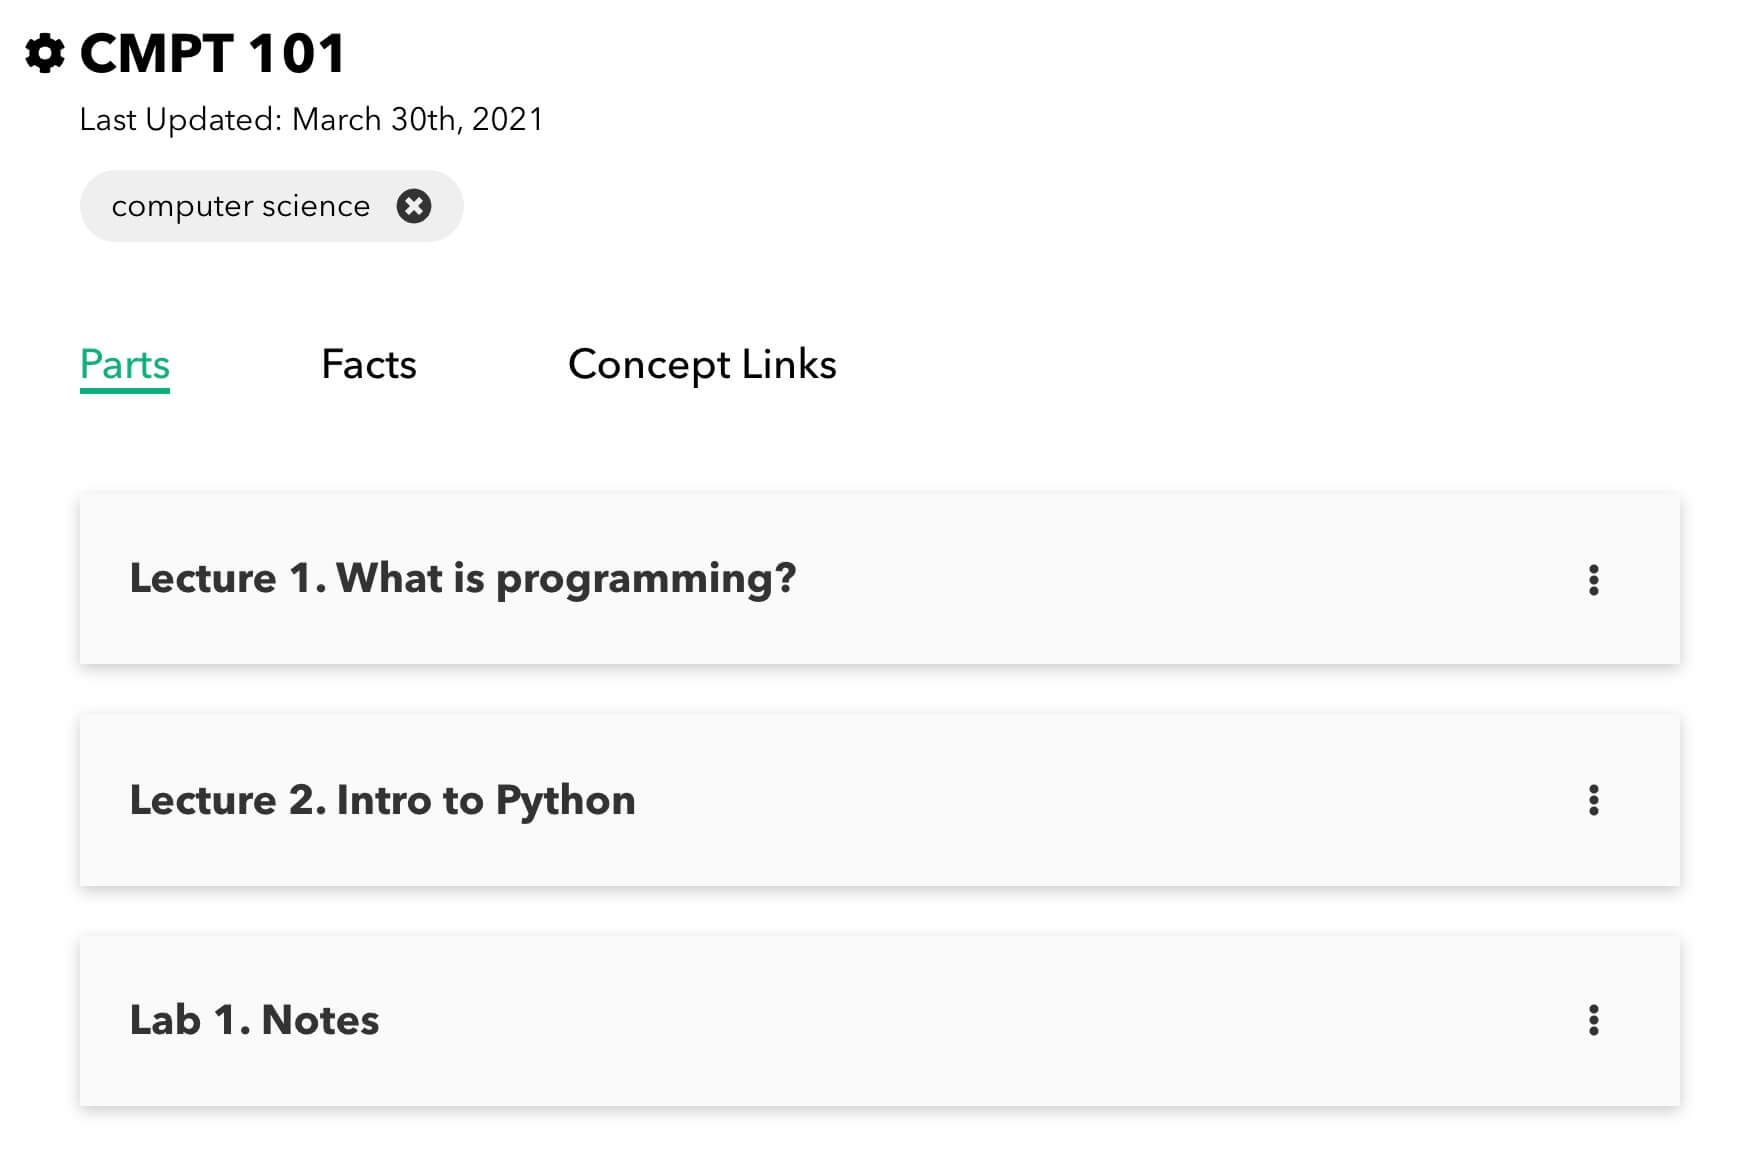
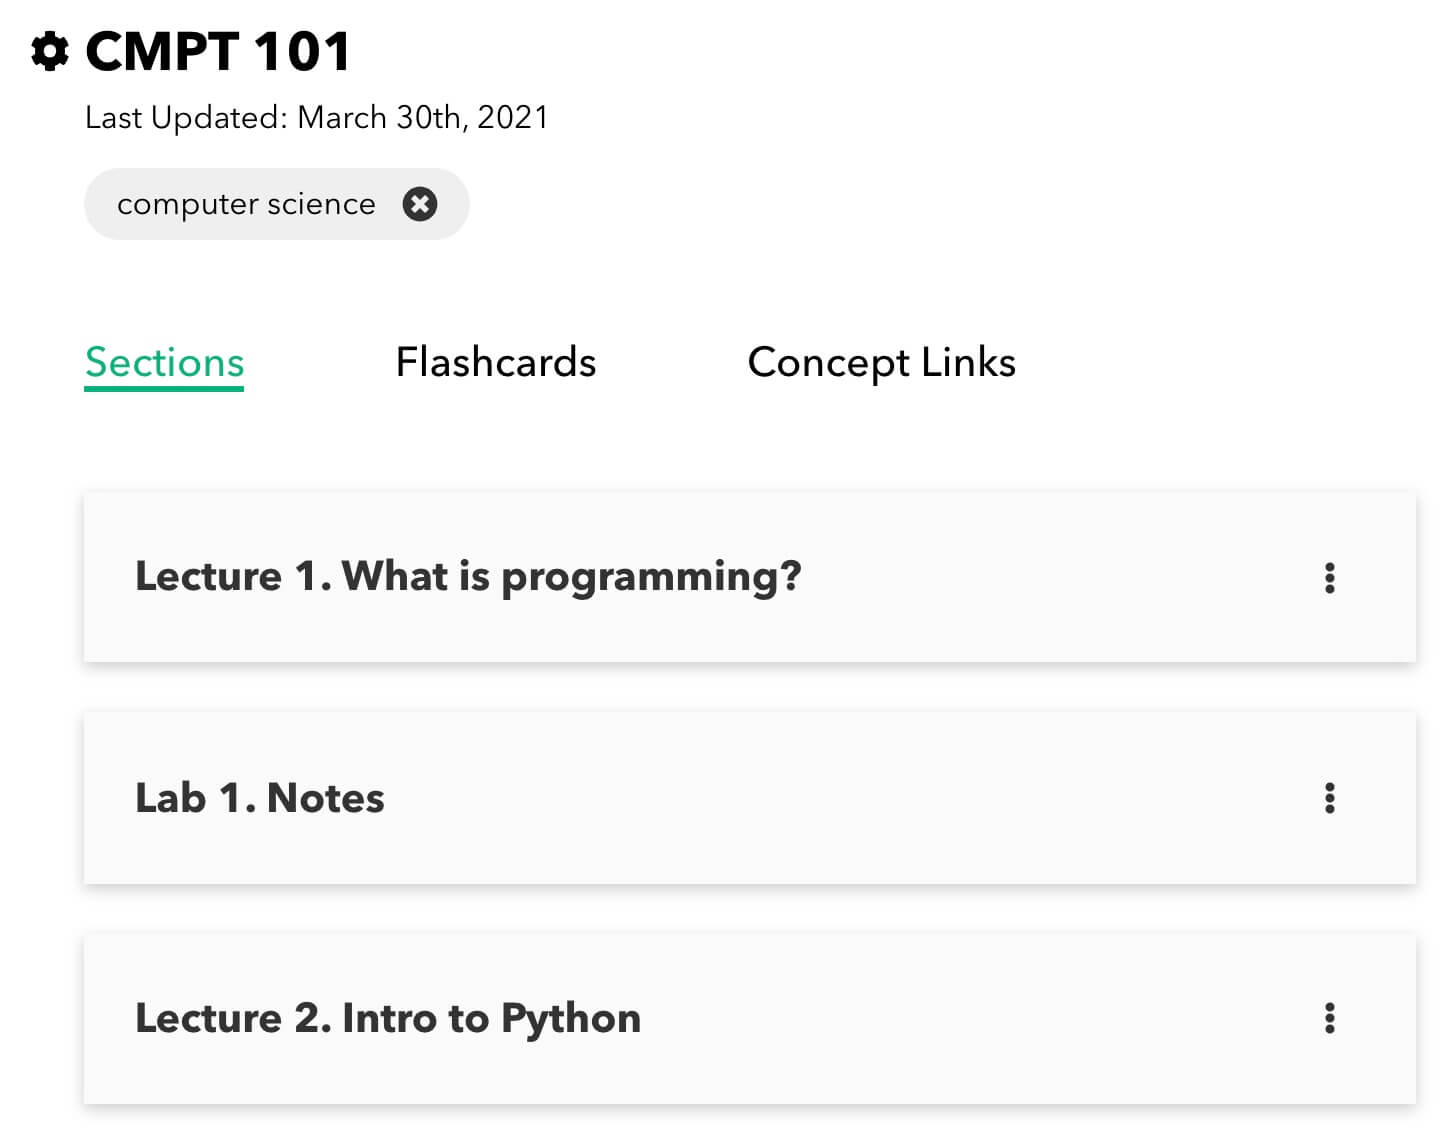
Rename resources on frontend to make them easier to understand

diff --git a/frontend/src/modal/components/welcome-wizard-modal.component.tsx b/frontend/src/modal/components/welcome-wizard-modal.component.tsx
@@ -150,11 +150,10 @@ const gettingStarted = (
 
 const materials = (
   <>
-    <SHeadingSubSubtitle>Materials</SHeadingSubSubtitle>
-    <SBodyText>Analogy: think of a material like a book or subject notebook</SBodyText>
+    <SHeadingSubSubtitle>Notebooks</SHeadingSubSubtitle>
     <SBodyText>
-      Materials are used to organize and group notes.
-      You can add tags to materials for further organization.
+      Notebooks are used to organize and group notes.
+      You can add tags to notebooks for further organization.
     </SBodyText>
     <SBodyText>Example Usages:</SBodyText>
     <SList>
@@ -168,13 +167,10 @@ const materials = (
 
 const parts = (
   <>
-    <SHeadingSubSubtitle>Material - Parts</SHeadingSubSubtitle>
+    <SHeadingSubSubtitle>Notebook - Sections</SHeadingSubSubtitle>
     <SBodyText>
-      A material is made up of multiple parts. Use parts to store a single "unit" of a material.
-      For example, if your material is a course, a part could be 1 lecture.
-    </SBodyText>
-    <SBodyText>
-      Analogy: chapter in a book
+      A notebook is made up of multiple sections.
+      For example, if your notebook is for a course, each section could be a lecture.
     </SBodyText>
     <SBodyText>Example Usages:</SBodyText>
     <SList>
@@ -188,24 +184,29 @@ const parts = (
 
 const sections = (
   <>
-    <SHeadingSubSubtitle>Part - Sections</SHeadingSubSubtitle>
-    <SBodyText>A section contains text boxes that you type your notes into. This is where you write your notes.</SBodyText>
-    <SBodyText>A part can have many sections.</SBodyText>
+    <SHeadingSubSubtitle>Section - Notes</SHeadingSubSubtitle>
+    <SBodyText>
+      This is where you write your notes.
+      Each note has two text boxes: one for a note title, the other for the note contents.
+    </SBodyText>
+    <SBodyText>A section can have many notes.</SBodyText>
     <SImageShadow src={sectionsImage} />
   </>
 );
 
 const facts = (
   <>
-    <SHeadingSubSubtitle>Part - Facts</SHeadingSubSubtitle>
+    <SHeadingSubSubtitle>Section - Flashcards</SHeadingSubSubtitle>
     <SBodyText>
-      A fact is a flashcard. Create a fact for information you want to practice and remember.
+      Create flashcards for information you want to practice and remember.
     </SBodyText>
     <SBodyText>
-      Clicking the checkmark will toggle the "mastered" status of a fact (green = mastered).
-      If a fact is mastered, you won't see it in practice mode (more on that later).
+      Clicking the checkmark will toggle the "mastered" status of a flashcard (green = mastered).
     </SBodyText>
-    <SBodyText>A part can have many facts.</SBodyText>
+    <SBodyText>
+      If you mark a flashcard as mastered, you won't see it in practice mode (more on that later).
+    </SBodyText>
+    <SBodyText>A section can have many flashcards.</SBodyText>
     <SImageShadow src={factsImage} />
   </>
 );
@@ -215,9 +216,11 @@ const concepts = (
     <SHeadingSubSubtitle>Concepts</SHeadingSubSubtitle>
     <SBodyText>
       Concepts represent abstract ideas or concepts that you're struggling to understand.
+    </SBodyText>
+    <SBodyText>
       Create a concept when you want to better understand an idea, theory, or concept.
     </SBodyText>
-    <SBodyText>Like materials, concepts can have tags.</SBodyText>
+    <SBodyText>Like notebooks, concepts be tagged for better organization.</SBodyText>
     <SImageShadow src={conceptsImage} />
   </>
 );
@@ -239,8 +242,10 @@ const dragAndDrop = (
     <SHeadingSubSubtitle>Drag & Drop</SHeadingSubSubtitle>
     <SBodyText>You can re-arrange the following things using drag-and-drop:</SBodyText>
     <SList>
-      <li>Material: Parts, Sections, Facts</li>
-      <li>Concept: Hooks</li>
+      <li>Notebook Sections</li>
+      <li>Notes</li>
+      <li>Flashcards</li>
+      <li>Hooks</li>
     </SList>
     <SImage src={dragSvg} />
   </>
@@ -251,13 +256,13 @@ const practice = (
     <SHeadingSubSubtitle>Practice Mode</SHeadingSubSubtitle>
     <SBodyText>
       Click on "Practice" in the left sidebar to enter practice mode.
-      This is where you can study your (non-mastered) facts.
+      This is where you can study your (non-mastered) flashcards.
     </SBodyText>
-    <SBodyText>The facts loaded depends on your current page:</SBodyText>
+    <SBodyText>Which flashcards are loaded depends on your current page:</SBodyText>
     <SList>
-      <li>Part Page: load facts for that part</li>
-      <li>Material Page: load facts for all parts in that material</li>
-      <li>Otherwise: load all facts for all materials / parts</li>
+      <li>Section Page: load flashcards for that section</li>
+      <li>Notebook Page: load flashcards for all sections in that notebook</li>
+      <li>Other Page: load all flashcards for all notebooks</li>
     </SList>
     <SImageShadow src={practiceImage} />
   </>

diff --git a/frontend/src/section/components/section-list.component.tsx b/frontend/src/section/components/section-list.component.tsx
@@ -1,7 +1,7 @@
 import React from "react";
 import { useDispatch, useSelector } from "react-redux";
 import { DropResult } from "react-beautiful-dnd";
-import { faBrain, faCube, faLightbulb } from "@fortawesome/free-solid-svg-icons";
+import { faLightbulb, faQuestionCircle, faStickyNote } from "@fortawesome/free-solid-svg-icons";
 import styled from "styled-components";
 
 // logic
@@ -14,6 +14,7 @@ import { useToggle } from "../../shared/hooks/use-toggle.hook";
 import { showModal } from "modal/redux/modal.slice";
 
 // components
+import { CreateFactModal } from "../../fact/components/create-fact-modal.component";
 import { DragAndDropWrapper } from "shared/components/drag-and-drop/drag-and-drop-wrapper.component";
 import { DraggableWrapper } from "shared/components/drag-and-drop/draggable-wrapper.component";
 import { FloatingCornerButton } from "shared/components/button/floating-corner-button.component";
@@ -22,7 +23,6 @@ import { EditableContentBox } from "shared/components/info/editable-content-box.
 // styles
 import { theme } from "shared/styles/theme.style";
 import { SHeadingSubSubtitle } from "shared/styles/typography.style";
-import { CreateFactModal } from "../../fact/components/create-fact-modal.component";
 
 interface IProps {
   partId: string;
@@ -36,9 +36,9 @@ export const SectionList: React.FC<IProps> = ({ partId }) => {
 
   const [menuShowing, toggleMenu] = useToggle(false);
   const menuActions: IMenuAction[] = [
-    { name: "Section", icon: faCube, action: handleCreateSection },
-    { name: "Fact", icon: faLightbulb, action: handleCreateFact },
-    { name: "Concept", icon: faBrain, action: handleCreateConcept },
+    { name: "Note", icon: faStickyNote, action: handleCreateSection },
+    { name: "Flashcard", icon: faQuestionCircle, action: handleCreateFact },
+    { name: "Concept", icon: faLightbulb, action: handleCreateConcept },
   ];
 
   function handleDragEnd(result: DropResult) {
@@ -94,7 +94,7 @@ export const SectionList: React.FC<IProps> = ({ partId }) => {
   if (!sections) return null;
   return (
     <SContainer>
-      <SHeadingSubSubtitle># Sections: {sections.length}</SHeadingSubSubtitle>
+      <SHeadingSubSubtitle># Notes: {sections.length}</SHeadingSubSubtitle>
 
       {sections.length === 0 && <SNoItemsHeading>No sections found...</SNoItemsHeading>}
       <DragAndDropWrapper droppableId="section-list-droppable" handleDragEnd={handleDragEnd}>

diff --git a/frontend/src/material/pages/material-detail.page.tsx b/frontend/src/material/pages/material-detail.page.tsx
@@ -30,8 +30,8 @@ export const MaterialDetailPage: React.FC<RouteComponentProps> = () => {
   const materialsLoaded = useSelector(selectMaterialsLoaded);
   const { materialId } = useParams<IMatchParams>();
 
-  const tabNames = ["Parts", "Facts", "Concept Links"];
-  const [selectedTab, setSelectedTab] = useState("Parts");
+  const tabNames = ["Sections", "Flashcards", "Concept Links"];
+  const [selectedTab, setSelectedTab] = useState(tabNames[0]);
 
   useEffect(() => {
     if (currentMaterial?.id === materialId) return;
@@ -44,10 +44,10 @@ export const MaterialDetailPage: React.FC<RouteComponentProps> = () => {
     const materialExists = materialHash.hasOwnProperty(materialId);
     if (materialExists) {
       dispatch(setCurrentMaterialId(materialId));
-      setSelectedTab("Parts");
+      setSelectedTab(tabNames[0]);
     } else {
       dispatch(showAndHideAlert({
-        message: "Material with that ID not found.",
+        message: "Notebook with that ID not found.",
         type: "warning",
       }));
     }
@@ -60,10 +60,10 @@ export const MaterialDetailPage: React.FC<RouteComponentProps> = () => {
       <MaterialDetailHeader material={currentMaterial} />
       <TabNames tabNames={tabNames} selectedTab={selectedTab} setSelectedTab={setSelectedTab} />
       <div>
-        <Tab title="Parts" selectedTab={selectedTab}>
+        <Tab title="Sections" selectedTab={selectedTab}>
           <PartList materialId={materialId} />
         </Tab>
-        <Tab title="Facts" selectedTab={selectedTab}>
+        <Tab title="Flashcards" selectedTab={selectedTab}>
           <FactsForMaterial material={currentMaterial} />
         </Tab>
         <Tab title="Concept Links" selectedTab={selectedTab}>

diff --git a/frontend/src/part/pages/part-detail.page.tsx b/frontend/src/part/pages/part-detail.page.tsx
@@ -30,7 +30,7 @@ export const PartDetailPage: React.FC = () => {
 
   const { partId } = useParams<IMatchParams>();
 
-  const tabNames = ["Sections", "Facts", "Concept Links"];
+  const tabNames = ["Notes", "Flashcards", "Concept Links"];
   const [selectedTab, setSelectedTab] = useState(tabNames[0]);
 
   useEffect(() => {
@@ -39,7 +39,7 @@ export const PartDetailPage: React.FC = () => {
     const partExists = partHash.hasOwnProperty(partId);
     if (partExists) {
       dispatch(setCurrentPartId(partId));
-      setSelectedTab("Sections");
+      setSelectedTab("Notes");
     } else {
       dispatch(getPart(partId));
       dispatch(setCurrentPartId(partId));
@@ -61,11 +61,11 @@ export const PartDetailPage: React.FC = () => {
 
       <TabNames tabNames={tabNames} selectedTab={selectedTab} setSelectedTab={setSelectedTab} />
       <div>
-        <Tab title="Sections" selectedTab={selectedTab}>
+        <Tab title="Notes" selectedTab={selectedTab}>
           <PartChecklist part={currentPart} />
           <SectionList partId={currentPart.id} />
         </Tab>
-        <Tab title="Facts" selectedTab={selectedTab}>
+        <Tab title="Flashcards" selectedTab={selectedTab}>
           <FactList partId={partId} />
         </Tab>
         <Tab title="Concept Links" selectedTab={selectedTab}>

diff --git a/frontend/src/material/components/facts-for-material.component.tsx b/frontend/src/material/components/facts-for-material.component.tsx
@@ -120,7 +120,7 @@ export const FactsForMaterial: React.FC<IProps> = ({ material }) => {
 
   return (
     <SContainer>
-      { factsForMaterial.length === 0 && <SHeadingSubSubtitle weight={500}>No facts found.</SHeadingSubSubtitle> }
+      { factsForMaterial.length === 0 && <SHeadingSubSubtitle weight={500}>No flashcards found.</SHeadingSubSubtitle> }
 
       {
         Object.keys(factHash).map((partName, index) => (
@@ -128,7 +128,7 @@ export const FactsForMaterial: React.FC<IProps> = ({ material }) => {
             <SPartHeading
               as={Link}
               to={`/parts/${factHash[partName][0].part_id}`}
-            >{partName}: {factHash[partName].length} Fact(s)</SPartHeading>
+            >{partName}: {factHash[partName].length} Flashcard{factHash[partName].length > 1 && "s"}</SPartHeading>
             <SList>
               {factHash[partName].map((fact, index) => (
                 <EditableContentBox
@@ -172,6 +172,7 @@ const SFactList = styled.div`
 `;
 
 const SPartHeading = styled(SHeadingSubSubtitle)`
+  font-weight: 500;
   display: inline-block;
   text-decoration: underline;
   

diff --git a/frontend/src/shared/components/nav/app-sidebar.component.tsx b/frontend/src/shared/components/nav/app-sidebar.component.tsx
@@ -12,7 +12,7 @@ import { useAppLocation } from "../../hooks/use-app-location.hook";
 import { selectTimerModalShowing } from "timer/redux/timer.selectors";
 
 import { theme } from "shared/styles/theme.style";
-import { TFactSource } from "../../../practice/redux/practice.types";
+import { TFactSource } from "practice/redux/practice.types";
 
 export const AppSidebar: React.FC = () => { 
   const dispatch = useDispatch();
@@ -29,7 +29,7 @@ export const AppSidebar: React.FC = () => {
     let source: TFactSource = "all";
 
     switch(appLocation) {
-      case "materials":
+      case "material-detail":
         source = "material";
         break;
       case "parts":
@@ -54,7 +54,7 @@ export const AppSidebar: React.FC = () => {
     <SContent>
       <SSidebarLink to="/materials" $isSelected={appLocation === "parts"}>
         <SIcon icon={faBook} />
-        <SName>Materials</SName>
+        <SName>Notebooks</SName>
       </SSidebarLink>
       <SSidebarLink to="/concepts">
         <SIcon icon={faLightbulb} />

diff --git a/frontend/src/practice/pages/practice.page.tsx b/frontend/src/practice/pages/practice.page.tsx
@@ -21,6 +21,7 @@ import { SButtonGreen, SButtonRed, SButton } from "shared/styles/button.style";
 import { STextareaBase } from "shared/styles/form.style";
 import { useForm } from "../../shared/hooks/use-form.hook";
 import { updateFact } from "../../fact/redux/fact.thunks";
+import { showAndHideAlert } from "../../alert/redux/alert.thunks";
 
 export const PracticePage: React.FC = () => {
   const practiceState = useSelector(selectPracticeState);
@@ -156,10 +157,10 @@ export const PracticePage: React.FC = () => {
   }
 
   function getStudyHeadingText() {
-    if (practiceState.source === "material") return "Studying facts for material";
-    if (practiceState.source === "part") return "Studying facts for part";
+    if (practiceState.source === "material") return "Studying flashcards in notebook";
+    if (practiceState.source === "part") return "Studying flashcards in section";
 
-    return "Studying all facts";
+    return "Studying all flashcards";
   }
 
   function getPracticeScreen() {

diff --git a/frontend/src/shared/hooks/use-app-location.hook.ts b/frontend/src/shared/hooks/use-app-location.hook.ts
@@ -1,7 +1,7 @@
 import { useState, useEffect } from "react";
 import { useLocation } from "react-router-dom";
 
-export type TAppLocation = "concepts" | "materials" | "library" | "other" | "parts" | "practice";
+export type TAppLocation = "concepts" | "materials" | "material-detail" | "library" | "other" | "parts" | "practice";
 
 export function useAppLocation(): TAppLocation {
   const [appLocation, setAppLocation] = useState<TAppLocation>("other");
@@ -12,6 +12,7 @@ export function useAppLocation(): TAppLocation {
     if (pathname.startsWith("/login"))      setAppLocation("other");
     if (pathname.startsWith("/concepts"))   setAppLocation("concepts");
     if (pathname.startsWith("/materials"))  setAppLocation("materials");
+    if (pathname.startsWith("/materials/")) setAppLocation("material-detail");
     if (pathname.startsWith("/parts"))      setAppLocation("parts");
     if (pathname.startsWith("/practice"))   setAppLocation("practice");
   }, [pathname]);

diff --git a/frontend/src/part/components/part-list.component.tsx b/frontend/src/part/components/part-list.component.tsx
@@ -69,7 +69,7 @@ export const PartList: React.FC<IProps> = ({ materialId }) => {
     <DragAndDropWrapper droppableId="part-list-droppable" handleDragEnd={handleDragEnd}>
       <SList>
         {materialParts.length === 0 && (
-          <SHeadingSubSubtitle weight={500}>No parts found...</SHeadingSubSubtitle>
+          <SHeadingSubSubtitle weight={500}>No sections found...</SHeadingSubSubtitle>
         )}
         {materialParts.map((part, index) => (
           <PartListItem
@@ -83,7 +83,7 @@ export const PartList: React.FC<IProps> = ({ materialId }) => {
       <FloatingCornerButton icon="plus" handleClick={toggleCreateModalShowing} />
       <CreateNamedEntityModal
         createEntity={handleCreate}
-        entityName="Part"
+        entityName="Section"
         handleClose={toggleCreateModalShowing}
         isShowing={createModalShowing}
       />

diff --git a/frontend/src/concept/pages/concept-detail.page.tsx b/frontend/src/concept/pages/concept-detail.page.tsx
@@ -30,7 +30,7 @@ export const ConceptDetailPage: FC<RouteComponentProps> = () => {
   const params = useParams<IMatchParams>();
   const conceptsLoaded = useSelector(selectConceptsLoaded);
 
-  const tabNames = ["Hooks", "Materials", "Concept Links"];
+  const tabNames = ["Hooks", "Notebooks", "Concept Links"];
   const [selectedTab, setSelectedTab] = useState("Hooks");
 
   const { conceptId } = params;
@@ -67,7 +67,7 @@ export const ConceptDetailPage: FC<RouteComponentProps> = () => {
         <Tab title="Hooks" selectedTab={selectedTab}>
           <ConceptHooks concept={currentConcept} />
         </Tab>
-        <Tab title="Materials" selectedTab={selectedTab}>
+        <Tab title="Notebooks" selectedTab={selectedTab}>
           <ConceptMaterials concept={currentConcept} />
         </Tab>
         <Tab title="Concept Links" selectedTab={selectedTab}>

diff --git a/frontend/src/material/pages/materials.page.tsx b/frontend/src/material/pages/materials.page.tsx
@@ -73,7 +73,7 @@ export const MaterialsPage: React.FC = () => {
       />
       <SConceptSection>
         <SPaddedContainer>
-          <SHeadingSubtitle>Materials</SHeadingSubtitle>
+          <SHeadingSubtitle>Notebooks</SHeadingSubtitle>
           <SortFilterControls
             filterText={filterText}
             getIcon={getSortIconCaret}
@@ -82,7 +82,7 @@ export const MaterialsPage: React.FC = () => {
             sortMode={sortMode}
             isCentered={false}
           />
-          { filteredMaterials.length === 0 && <SNotFoundHeading>No materials found.</SNotFoundHeading> }
+          { filteredMaterials.length === 0 && <SNotFoundHeading>No notebooks found.</SNotFoundHeading> }
         </SPaddedContainer>
 
         <MaterialList materials={filteredMaterials} />

diff --git a/frontend/src/fact/components/fact-list.component.tsx b/frontend/src/fact/components/fact-list.component.tsx
@@ -89,9 +89,9 @@ export const FactList: React.FC<IProps> = ({ partId }) => {
   if (!facts) return null;
   return (
     <SContainer>
-      <SHeadingSubSubtitle># Facts: {facts.length}</SHeadingSubSubtitle>
+      <SHeadingSubSubtitle># Flashcards: {facts.length}</SHeadingSubSubtitle>
 
-      {facts.length === 0 && <SNoItemsHeading>No facts found...</SNoItemsHeading>}
+      {facts.length === 0 && <SNoItemsHeading>No flashcards found...</SNoItemsHeading>}
       <DragAndDropWrapper droppableId="section-list-droppable" handleDragEnd={handleDragEnd}>
         <SList>
           {facts.map((fact, index) => (
